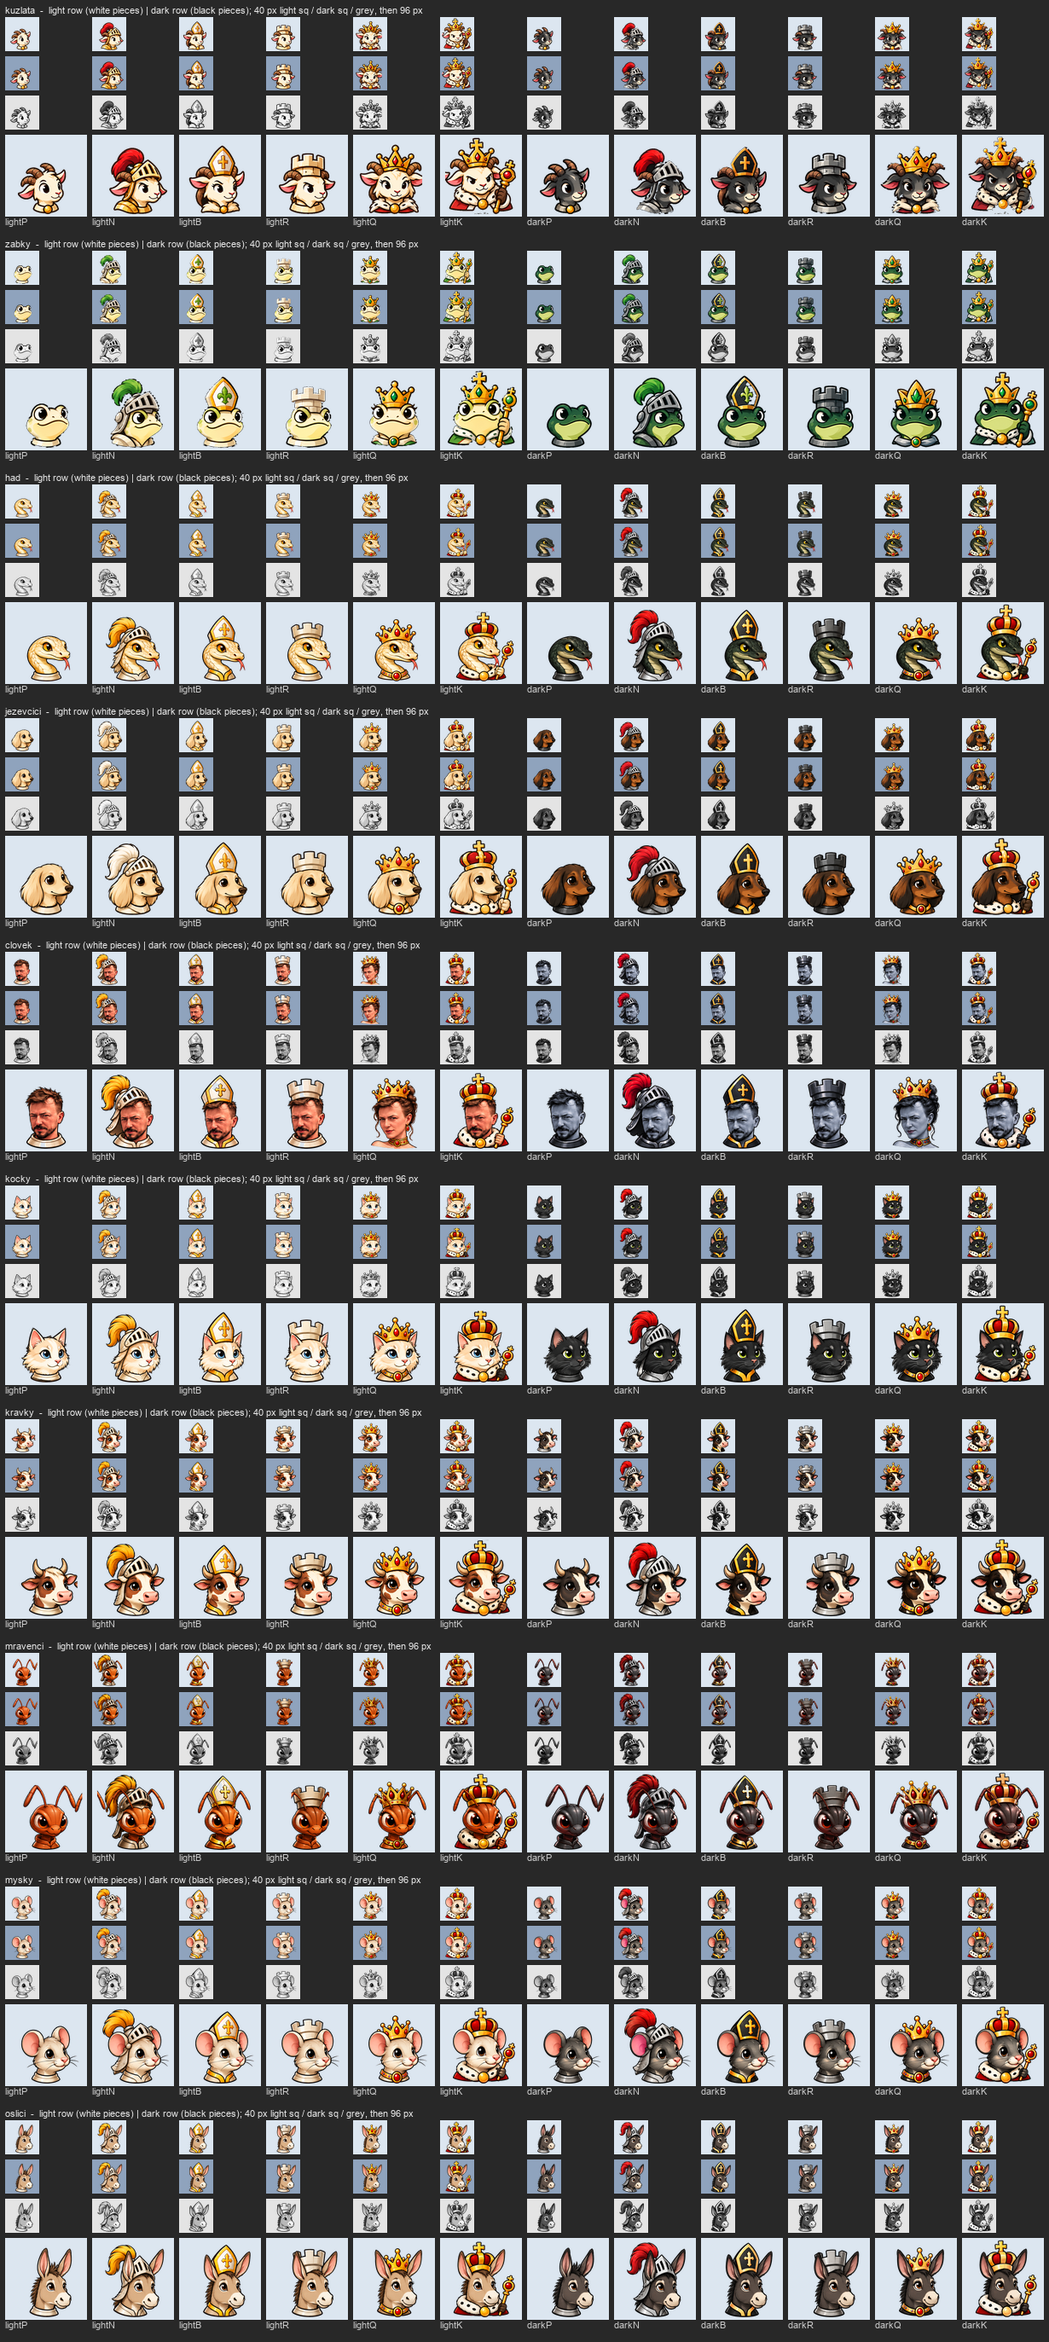
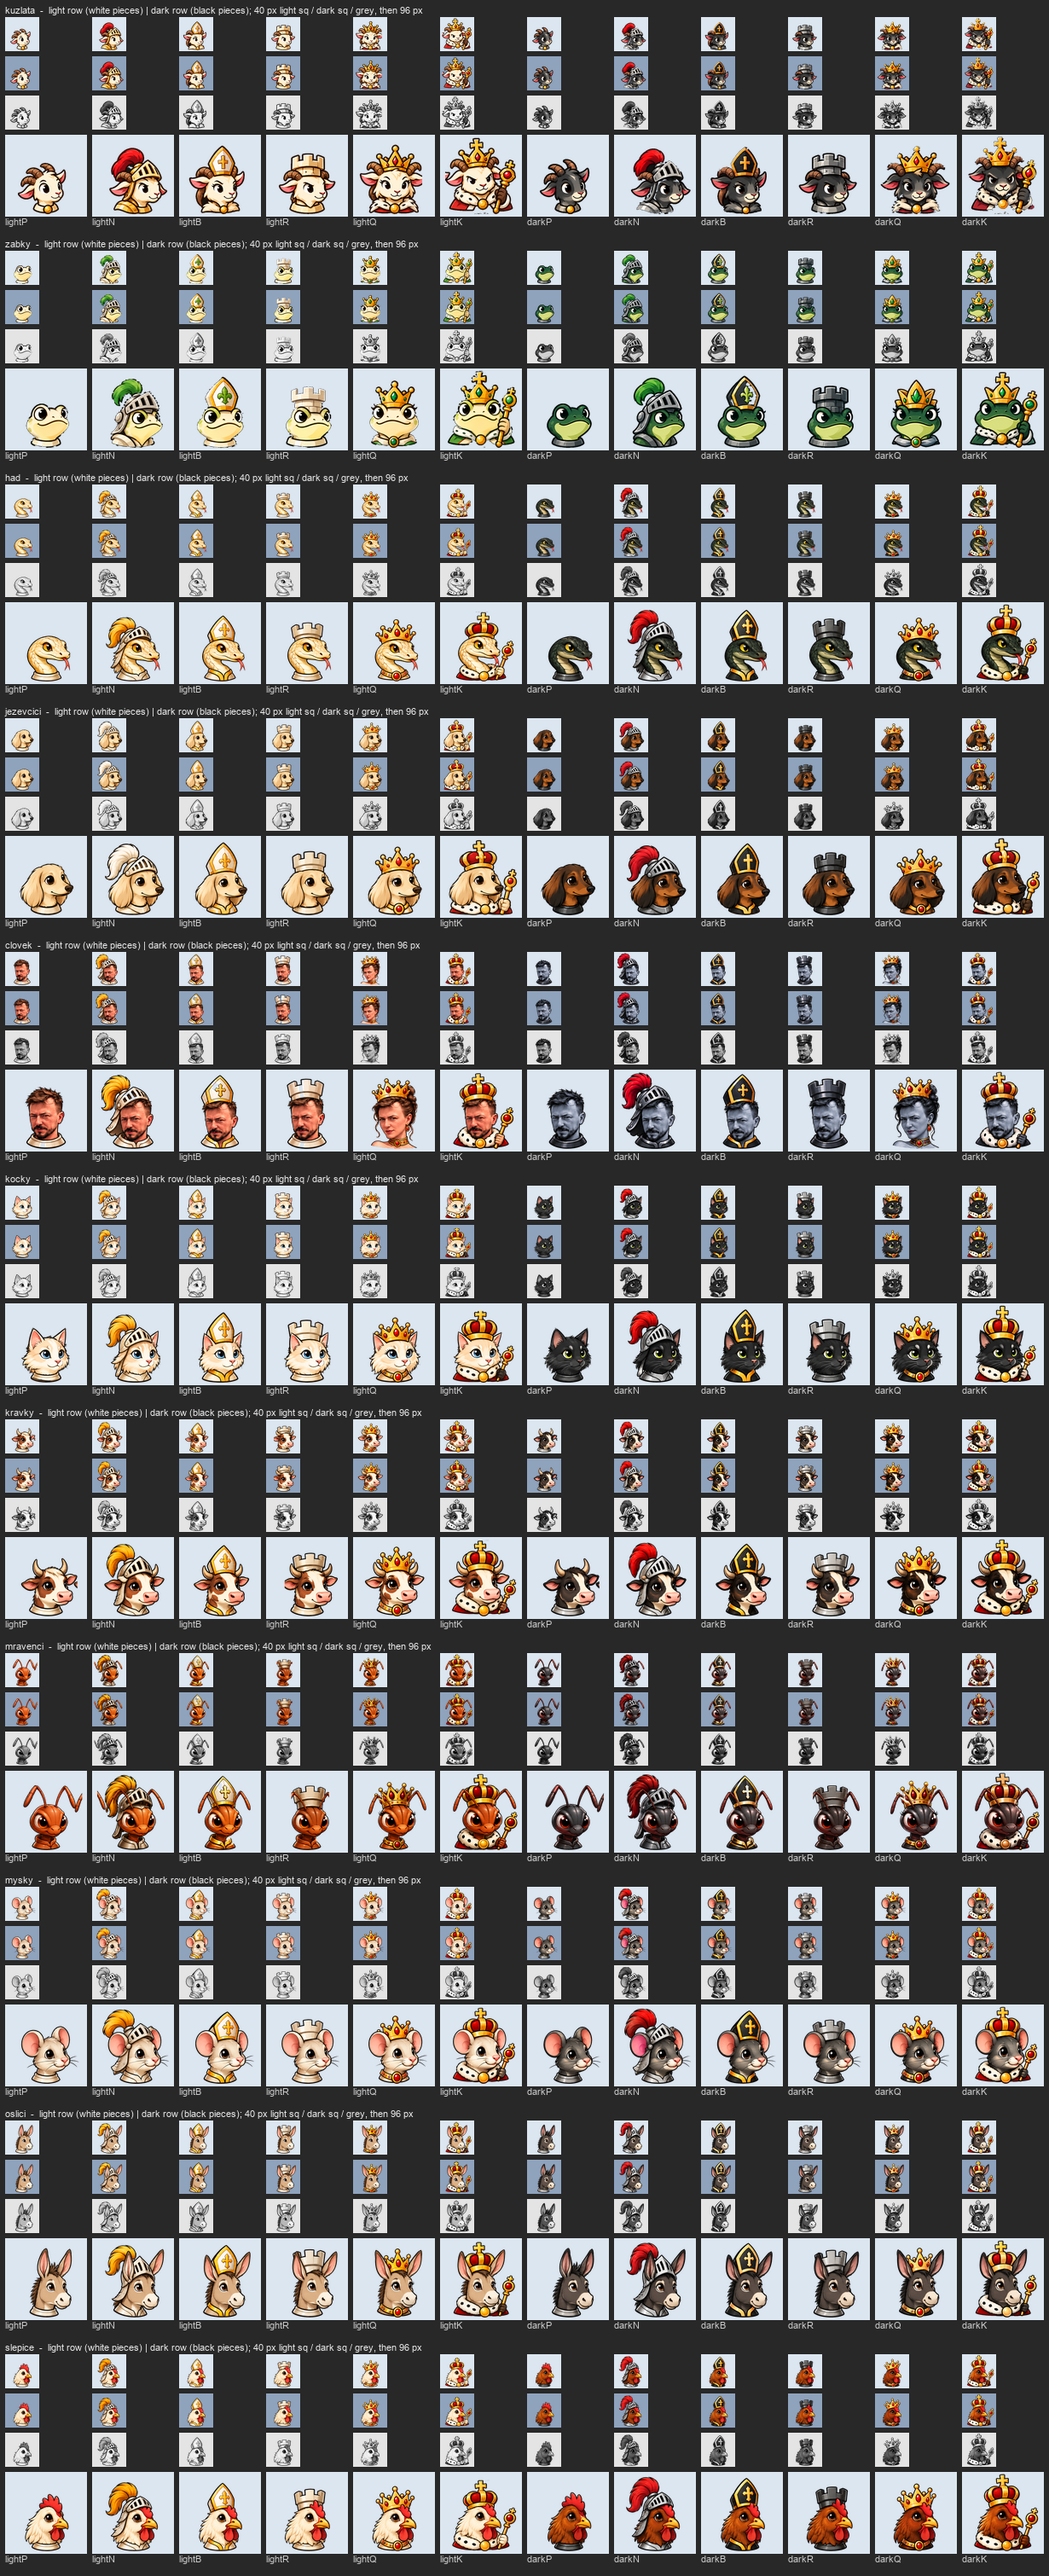
Seasonal Christmas characters: carps and gingerbread kids (28 Nov - 6 Jan)
Two Czech-Christmas characters for the Hlavy library, generated with gpt-image-2
(Azure OpenAI, tenant neoral) from the standard sheet prompt plus a Czech Christmas
theme (no Santa, reindeer or snowmen). animals.json gains an optional season window;
characters outside it are dropped while the library loads.

diff --git a/src/piece-sets.ts b/src/piece-sets.ts
@@ -34,6 +34,22 @@ export interface Animal {
   hurt: string;
   /** Six difficulty labels, weakest first; null = the default (frog) ladder names. */
   levels: string[] | null;
+  /** Seasonal character: offered only between these days (inclusive, "MM-DD"); null = always. */
+  season: Season | null;
+}
+
+/** A yearly window of days, "MM-DD" each; `from` after `to` wraps over the new year. */
+export interface Season {
+  from: string;
+  to: string;
+}
+
+const SEASON_DAY = /^(0[1-9]|1[0-2])-(0[1-9]|[12][0-9]|3[01])$/;
+
+/** True when `date` (local time) falls inside the yearly window, both ends included. */
+export function inSeason(season: Season, date: Date): boolean {
+  const day = `${String(date.getMonth() + 1).padStart(2, '0')}-${String(date.getDate()).padStart(2, '0')}`;
+  return season.from <= season.to ? day >= season.from && day <= season.to : day >= season.from || day <= season.to;
 }
 
 export interface AnimalLibrary {
@@ -469,10 +485,11 @@ async function loadLibrary(baseUrl: string, folder: string): Promise<AnimalLibra
     return null;
   }
   const animals: Animal[] = [];
+  const today = new Date();
   for (const entry of r.animals) {
     const animal = validateAnimal(entry);
-    if (animal) animals.push(animal);
-    else console.warn('Ignoring invalid character entry', entry);
+    if (!animal) console.warn('Ignoring invalid character entry', entry);
+    else if (animal.season === null || inSeason(animal.season, today)) animals.push(animal);
   }
   if (animals.length === 0) {
     console.error(`Character library "${folder}" has no valid characters; its style is unavailable`);
@@ -493,7 +510,14 @@ function validateAnimal(entry: unknown): Animal | null {
     if (!Array.isArray(e.levels) || e.levels.length !== 6 || !e.levels.every((l) => typeof l === 'string' && l.length > 0)) return null;
     levels = e.levels as string[];
   }
-  return { id: e.id, name: e.name as string, za: e.za as string, sound: e.sound as string, hurt: e.hurt as string, levels };
+  let season: Season | null = null;
+  if ('season' in e) {
+    const sn = e.season as Record<string, unknown> | null;
+    if (typeof sn !== 'object' || sn === null || typeof sn.from !== 'string' || typeof sn.to !== 'string') return null;
+    if (!SEASON_DAY.test(sn.from) || !SEASON_DAY.test(sn.to)) return null;
+    season = { from: sn.from, to: sn.to };
+  }
+  return { id: e.id, name: e.name as string, za: e.za as string, sound: e.sound as string, hurt: e.hurt as string, levels, season };
 }
 
 // ---- styling ----------------------------------------------------------------------------

diff --git a/public/piece-sets/animals/pernicci/pieces.css b/public/piece-sets/animals/pernicci/pieces.css
@@ -1,0 +1,14 @@
+/* pernicci: light row = white pieces, dark row = black pieces. Generated by scripts/extract-animals.py. */
+html.skm-white-pernicci .cg-wrap piece.white, html.skm-black-pernicci .cg-wrap piece.black { background-size: contain; background-position: center; background-repeat: no-repeat; }
+html.skm-white-pernicci .cg-wrap piece.king.white { background-image: url(light/K.png); }
+html.skm-white-pernicci .cg-wrap piece.queen.white { background-image: url(light/Q.png); }
+html.skm-white-pernicci .cg-wrap piece.rook.white { background-image: url(light/R.png); }
+html.skm-white-pernicci .cg-wrap piece.bishop.white { background-image: url(light/B.png); }
+html.skm-white-pernicci .cg-wrap piece.knight.white { background-image: url(light/N.png); }
+html.skm-white-pernicci .cg-wrap piece.pawn.white { background-image: url(light/P.png); }
+html.skm-black-pernicci .cg-wrap piece.king.black { background-image: url(dark/K.png); }
+html.skm-black-pernicci .cg-wrap piece.queen.black { background-image: url(dark/Q.png); }
+html.skm-black-pernicci .cg-wrap piece.rook.black { background-image: url(dark/R.png); }
+html.skm-black-pernicci .cg-wrap piece.bishop.black { background-image: url(dark/B.png); }
+html.skm-black-pernicci .cg-wrap piece.knight.black { background-image: url(dark/N.png); }
+html.skm-black-pernicci .cg-wrap piece.pawn.black { background-image: url(dark/P.png); }

diff --git a/public/piece-sets/animals/kapri/pieces.css b/public/piece-sets/animals/kapri/pieces.css
@@ -1,0 +1,14 @@
+/* kapri: light row = white pieces, dark row = black pieces. Generated by scripts/extract-animals.py. */
+html.skm-white-kapri .cg-wrap piece.white, html.skm-black-kapri .cg-wrap piece.black { background-size: contain; background-position: center; background-repeat: no-repeat; }
+html.skm-white-kapri .cg-wrap piece.king.white { background-image: url(light/K.png); }
+html.skm-white-kapri .cg-wrap piece.queen.white { background-image: url(light/Q.png); }
+html.skm-white-kapri .cg-wrap piece.rook.white { background-image: url(light/R.png); }
+html.skm-white-kapri .cg-wrap piece.bishop.white { background-image: url(light/B.png); }
+html.skm-white-kapri .cg-wrap piece.knight.white { background-image: url(light/N.png); }
+html.skm-white-kapri .cg-wrap piece.pawn.white { background-image: url(light/P.png); }
+html.skm-black-kapri .cg-wrap piece.king.black { background-image: url(dark/K.png); }
+html.skm-black-kapri .cg-wrap piece.queen.black { background-image: url(dark/Q.png); }
+html.skm-black-kapri .cg-wrap piece.rook.black { background-image: url(dark/R.png); }
+html.skm-black-kapri .cg-wrap piece.bishop.black { background-image: url(dark/B.png); }
+html.skm-black-kapri .cg-wrap piece.knight.black { background-image: url(dark/N.png); }
+html.skm-black-kapri .cg-wrap piece.pawn.black { background-image: url(dark/P.png); }

diff --git a/src/lessons/text.ts b/src/lessons/text.ts
@@ -50,6 +50,8 @@ const ANIMAL_SINGULAR: Record<string, string> = {
   pstrosi: 'pštros',
   veverky: 'veverka',
   zizaly: 'žížala',
+  kapri: 'kapr',
+  pernicci: 'perníček',
 };
 
 /** The child's piece set as far as texts care: a library character, or none (classic / own set). */

diff --git a/scripts/extract-animals.py b/scripts/extract-animals.py
@@ -73,17 +73,21 @@ SOURCES: dict[str, dict[str, tuple[str, str]]] = {
     "kuzlata": {"light": ("farm-busts.png", "top"), "dark": ("farm-busts-inverse.png", "top")},
     "zabky": {"light": ("farm-busts-inverse.png", "bottom"), "dark": ("farm-busts.png", "bottom")},
 }
-for _id in ["had", "jezevcici", "clovek", "kocky", "kravky", "mravenci", "mysky", "oslici", "slepice", "tucnaci", "zraloci", "mouchy", "vosy", "lamy", "pstrosi", "veverky", "zizaly"]:
+for _id in ["had", "jezevcici", "clovek", "kocky", "kravky", "mravenci", "mysky", "oslici", "slepice", "tucnaci", "zraloci", "mouchy", "vosy", "lamy", "pstrosi", "veverky", "zizaly", "kapri", "pernicci"]:
     SOURCES[_id] = {"light": (f"{_id}.png", "bottom"), "dark": (f"{_id}.png", "top")}
 
 # Sheets without the Czech piece labels between the rows (the layout is the same: dark row
 # on top, light row below, P R N B Q K left to right — see docs/vlastni-sada.md). The
 # wasps were regenerated 2026-09-14 after the pilot found the old ones hard to read.
-UNLABELLED_SHEETS = {"veverky.png", "vosy.png"}
+UNLABELLED_SHEETS = {"veverky.png", "vosy.png", "kapri.png", "pernicci.png"}
 
 # Verdict overrides: (character, side, role, pocket index) -> True = clear, False = keep.
 # Filled in from the DoD review of the printed verdicts / debug overlays.
 POCKET_OVERRIDES: dict[tuple[str, str, str, int], bool] = {}
+
+# Characters whose art has flat white details (sugar icing on the gingerbread kids): only
+# pockets at least this large (the gap between the king's arm and sceptre) are background.
+POCKET_MIN_CLEAR_AREA: dict[str, int] = {"pernicci": 1000}
 
 
 # ---- fast connected components (BFS over pixel coordinates) -----------------------------
@@ -233,6 +237,9 @@ def cut_piece(character: str, side: str, role: str, sh: Sheet, comp: np.ndarray,
         else:
             clear = bool((mean >= FLAT_MEAN).all() and std <= FLAT_STD)
             why = f"mean {tuple(int(m) for m in mean)} std {std:.1f}"
+            if clear and int(cand.sum()) < POCKET_MIN_CLEAR_AREA.get(character, 0):
+                clear = False
+                why += " -> small pocket kept (icing)"
         key = (character, side, role, idx)
         if key in POCKET_OVERRIDES:
             clear = POCKET_OVERRIDES[key]

diff --git a/public/piece-sets/CONTRACT.md b/public/piece-sets/CONTRACT.md
@@ -33,7 +33,10 @@ public/piece-sets/animals/<id>/pieces.css                generated, scoped rules
 - `id` — folder name, `/^[a-z0-9-]+$/`. `name` nominative plural ("hadi"), `za` accusative
   after "Hraju za …" ("hady"), `sound` the king's noise in the review bubbles, `hurt` the
   noise when one of its pieces is taken. `levels` (optional) — six difficulty labels,
-  weakest first; without it the ladder's own (frog) names are used.
+  weakest first; without it the ladder's own (frog) names are used. `season` (optional,
+  `{ "from": "11-28", "to": "01-06" }`, "MM-DD", both days included, may wrap over the new
+  year) — a seasonal character: outside the window the app drops it while loading, so it
+  is neither offered nor drawn; a stored pick of it falls back to the first character.
 - `pieces.css` is generated by `scripts/extract-animals.py` and scopes every rule by a
   class on `<html>`: `html.skm-white-had .cg-wrap piece.king.white { … light/K.png }` and
   `html.skm-black-had .cg-wrap piece.king.black { … dark/K.png }`. The app loads the
